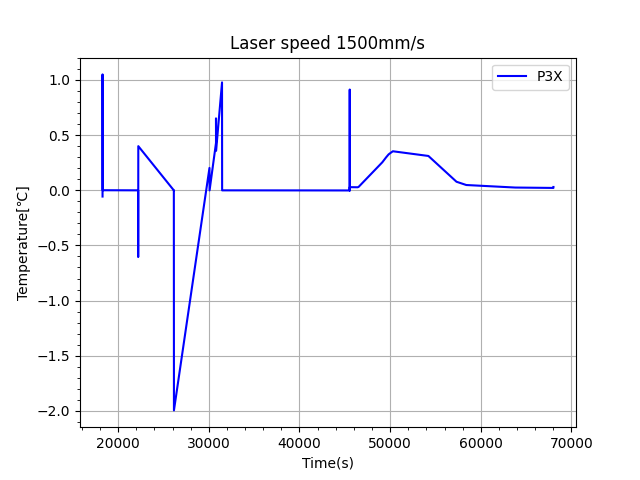
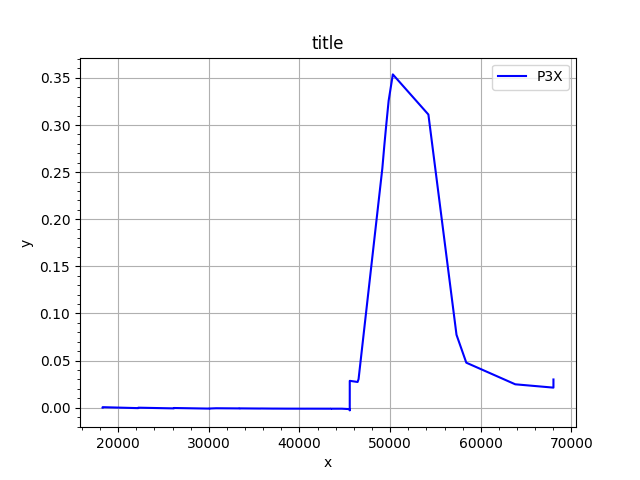
update to data match Exponential

diff --git a/main.py b/main.py
@@ -10,15 +10,15 @@ def data_x_y(data_local):
     with open(data_local, newline='') as f:
         reader = csv.reader(f)
         data = list(reader)
-    print("DATA = ",data)
+    #print("DATA_ori = ",data)
     #刪除前四項數據
     for i in range(4):
         del(data[0])
-    print("DATA = ",data)
+    #print("DATA_del = ",data)
     #正則表達式處理數據剃除分號並分組
     for i in range(len(data)):
         #重新放入 compile_result_list中
-        compile_result_list.append(re.findall(r"\-?\d+\.+\d+", data[i][0], re.I))
+        compile_result_list.append(re.findall(r"\-?\d+\.+\d+e?-?\d+", data[i][0], re.I))
 
     #數據由字串轉為浮點數
     for i in range(len(compile_result_list)):
@@ -67,14 +67,14 @@ if __name__ == '__main__':
     #格線
     plt.grid(True)
     #x座標名
-    plt.xlabel('Time(s)')
+    plt.xlabel('x')
     #y座標名
-    plt.ylabel('Temperature[℃]')
+    plt.ylabel('y')
     #刻度等分數
     axes.xaxis.set_minor_locator(AutoMinorLocator(5))
     axes.yaxis.set_minor_locator(AutoMinorLocator(5))
     #標題
-    plt.title('Laser speed 1500mm/s')
+    plt.title('title')
     #存檔位置
     plt.savefig('.\\figure\\fig.png')
     #跳出圖型視窗
